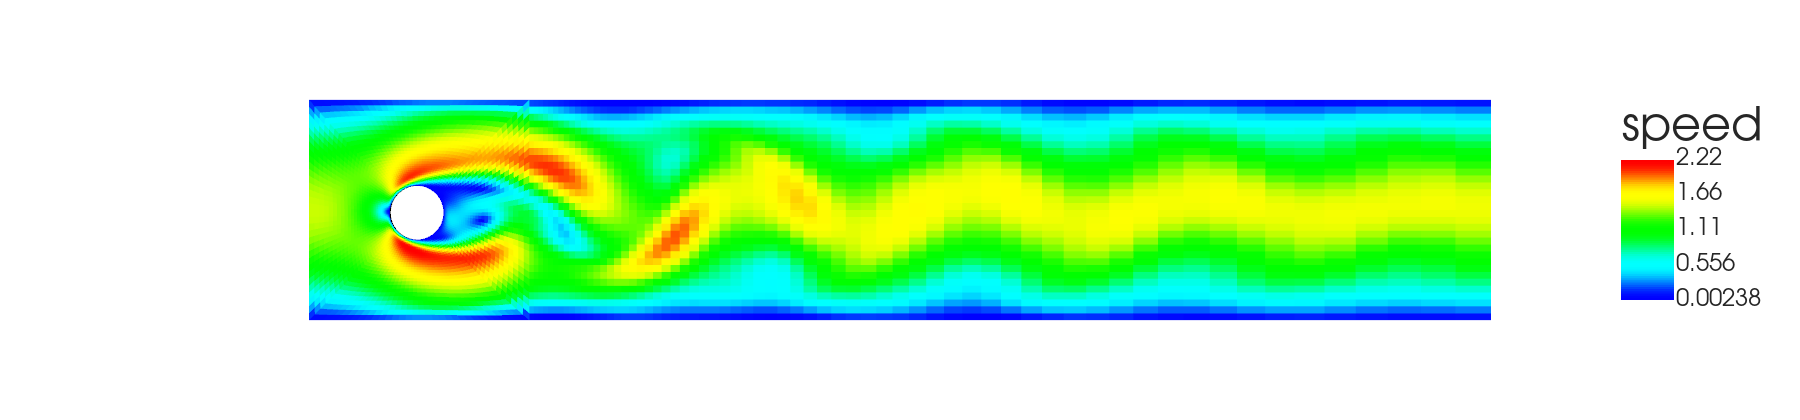
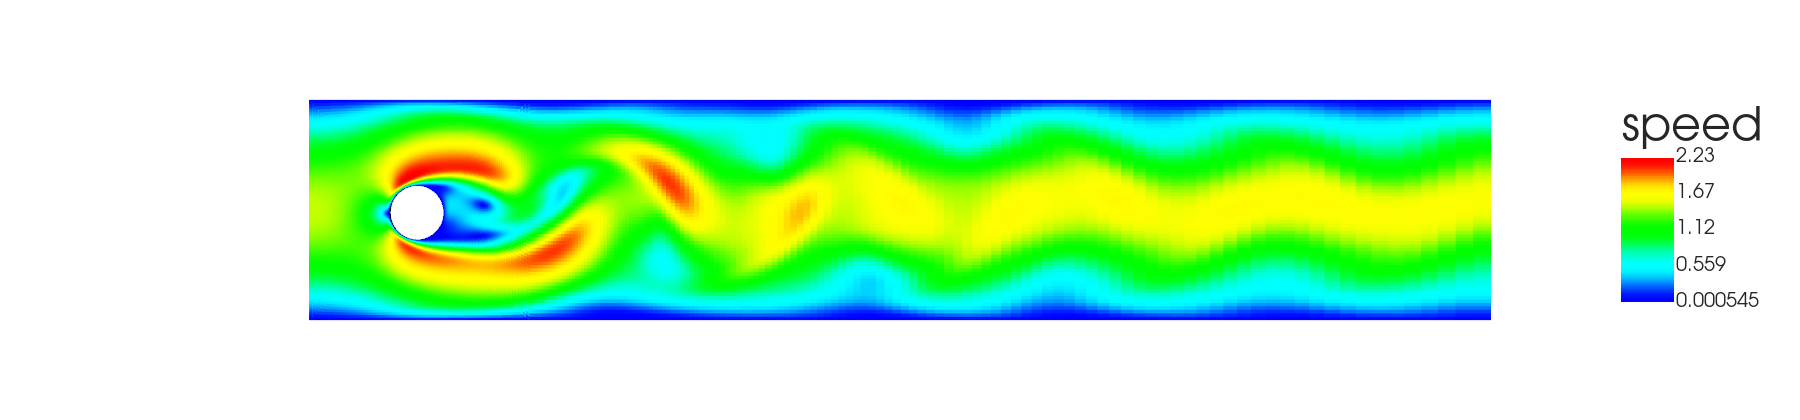
Stage 5: cylinder Re 100 on 24 576 cells in the report and gallery (#19)
Claude-Session: https://claude.ai/code/session_012imjwoWSLUKtEEwD4sDNpZ

diff --git a/docs/verification/stage5.md b/docs/verification/stage5.md
@@ -24,7 +24,7 @@ requests and are added here. The commands are in
 | Taylor–Green vortex: space order 2 | 16² to 128² cells at Δt = 0.0025 s: 3.02, 2.55, 2.09 | case `taylor_green_space` (fail outside 1.8–2.2) |
 | Order 2 at large time steps | Courant numbers 1.3 to 9 with outer iterations to 1e-9: 1.97, 2.00 | case `taylor_green_cfl10` |
 | Cylinder 2D-1, Re 20 (C_D, C_L, Δp) | on 24 576 cells C_D and Δp inside the reference ranges, C_L 0.4 % below; on 98 304 cells all three inside | case `cylinder_re20` (fails above 0.5 %), test `cylinder_re20_on_the_coarse_mesh` |
-| Cylinder 2D-2, Re 100 (C_D,max, C_L,max, St) | on 6 144 cells C_D,max, St and Δp inside the ranges, C_L,max 1.9 % below | case `cylinder_re100` (fails above 2.5 %) |
+| Cylinder 2D-2, Re 100 (C_D,max, C_L,max, St) | on 6 144 cells C_D,max, St and Δp inside the ranges, C_L,max 1.9 % below; on 24 576 cells C_L,max 0.5 % below, the others inside | case `cylinder_re100` (fails above 2.5 %) |
 | A restart continues bit-identically (D42) | BDF2 with the adaptive step, and Crank–Nicolson with outer iterations: every field, old level, the clock and the multigrid matrix of the continued run equal those of the run without the interruption | tests `restart_continues_bit_identically`, `restart_crank_nicolson_outer` |
 | Control files and re-reading (D40) | `.stop` ends a run with its restart file and results; `.result_N` writes the fields at step N; `.read_toml_N` and `reread_every` apply the changed run-time keys and list the rest as not applied | tests `stop_file_ends_the_run`, `result_and_reread_files` |
 | Steady state of the time stepping | the lid-driven cavity at Re 100, time-stepped with BDF2 or Crank–Nicolson at Courant number 6 to the steady state, equals the SIMPLEC solution to 2e-12 (relative); the Rhie–Chow time-step term does not depend on Δt (D27) | case `cavity_re100_transient` (Ghia et al. to 0.44 % / 0.95 %, as stage 4), test `steady_state_of_the_time_stepping_is_the_simplec_solution` |
@@ -107,6 +107,7 @@ St 0.295–0.305, Δp 2.46–2.50 Pa):
 | Cells | Steps | Δt (s) | C_D,max | C_L,max | St | Δp (Pa) | Time |
 |---:|---:|---:|---:|---:|---:|---:|---:|
 | 6 144 | 8 488 | 5.0e-4–1.2e-3 | 3.2319 | 0.9712 | 0.2955 | 2.4819 | 458 s, 1 thread |
+| 24 576 | 17 009 | 1.7e-4–6.1e-4 | 3.2305 | 0.9847 | 0.3008 | 2.4854 | 2 310 s, 2 threads |
 
 ## Methods
 

diff --git a/docs/gallery.md b/docs/gallery.md
@@ -538,7 +538,7 @@ vortices; on 98 304 cells the drag and lift coefficients and the pressure
 difference across the cylinder lie inside the reference ranges
 (C_D 5.5800, C_L 0.01060, Δp 0.11751 Pa).
 
-![Vortex street at Re = 100](figures/gallery/cylinder_re100_speed.png)
+![Vortex street at Re = 100, 24 576 cells, t = 8 s](figures/gallery/cylinder_re100_speed.png)
 
 At Re = 100 a vortex street forms. The time step follows a Courant number
 of 0.8; from t = 5 s the run evaluates the largest drag and lift, the
@@ -554,6 +554,7 @@ after the lift maximum.
 | Re 20 | 98 304 | 5.5800 | 0.01060 | | 0.11751 |
 | Re 100, reference | | 3.22–3.24 | 0.99–1.01 | 0.295–0.305 | 2.46–2.50 |
 | Re 100 | 6 144 | 3.2319 | 0.9712 | 0.2955 | 2.4819 |
+| Re 100 | 24 576 | 3.2305 | 0.9847 | 0.3008 | 2.4854 |
 
 ![The O-grid around the cylinder, refine 0](figures/gallery/cylinder_mesh.png)
 

diff --git a/CHANGELOG.md b/CHANGELOG.md
@@ -66,7 +66,8 @@ complete. The first part, the transient core and its benchmarks
   (Crank–Nicolson) on the finest pair, space order 2.09, order 2 at
   Courant numbers up to 9 with outer iterations; cylinder Re 20 inside all
   reference ranges on 98 304 cells; Re 100 on 6 144 cells with C_D,max,
-  St and Δp inside the ranges.
+  St and Δp inside the ranges, on 24 576 cells C_L,max 0.5 % below its
+  range and the others inside.
 - `cfdcraft flow --restart FILE --end-time T`; seven new case files,
   gallery 14–15, recipes 21–23. The Release workflow now refreshes the
   cached README badges (recipe 6).

diff --git a/docs/recipes.md b/docs/recipes.md
@@ -798,7 +798,9 @@ python3 tools/render_mesh.py output/cylinder_re20/fields.vtkhdf cylinder.png --f
 ```
 
 The mesh is built in (`[mesh.cylinder]`); `refine = 1` and `2` give 24 576
-and 98 304 cells. On 98 304 cells the steady case needs
+and 98 304 cells. Re 100 with `refine = 1` takes about 40 minutes on two
+cores and brings C_L,max to 0.5 % of its range; with a finer mesh lower the
+first `time_step` (the adaptive step starts from it). On 98 304 cells the steady case needs
 `relaxation_velocity = 0.5` and about 12 000 outer iterations:
 
 ```toml
